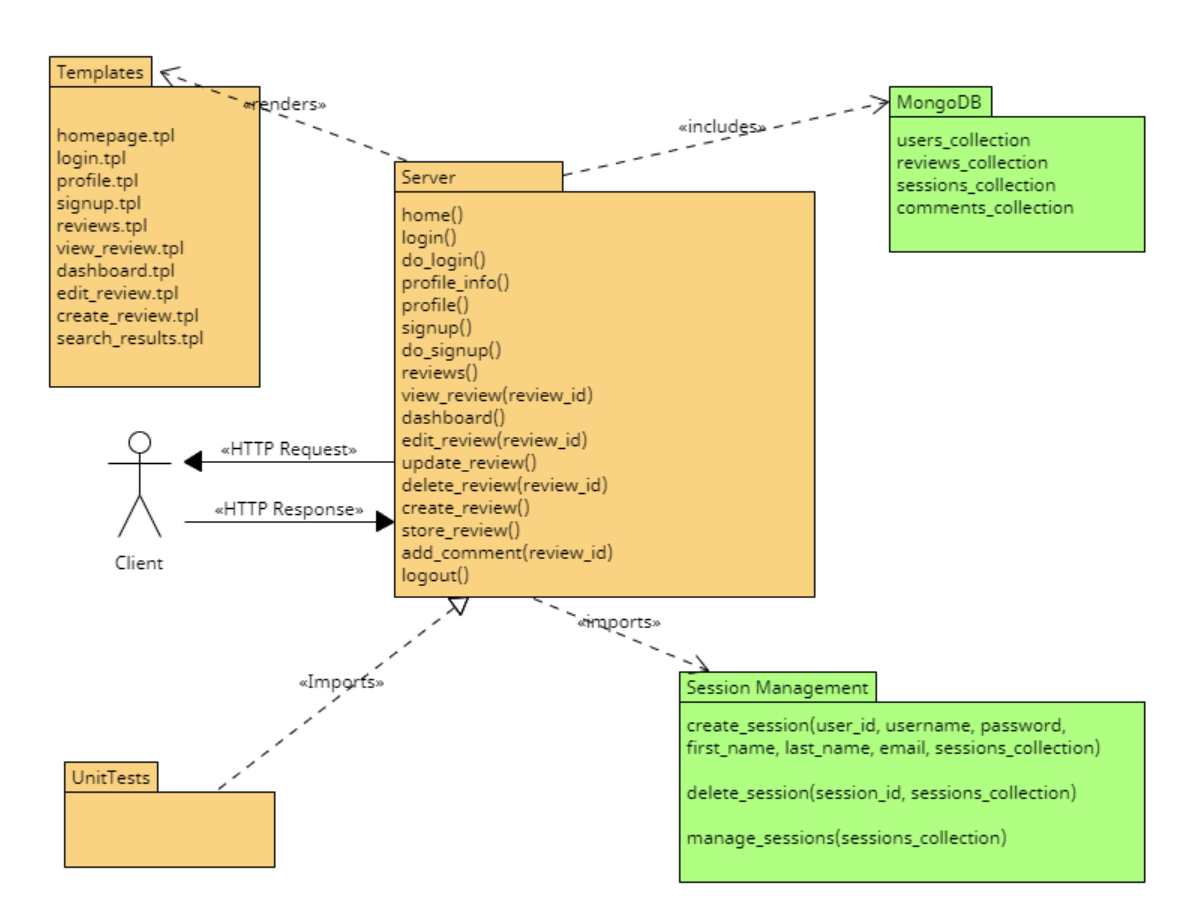
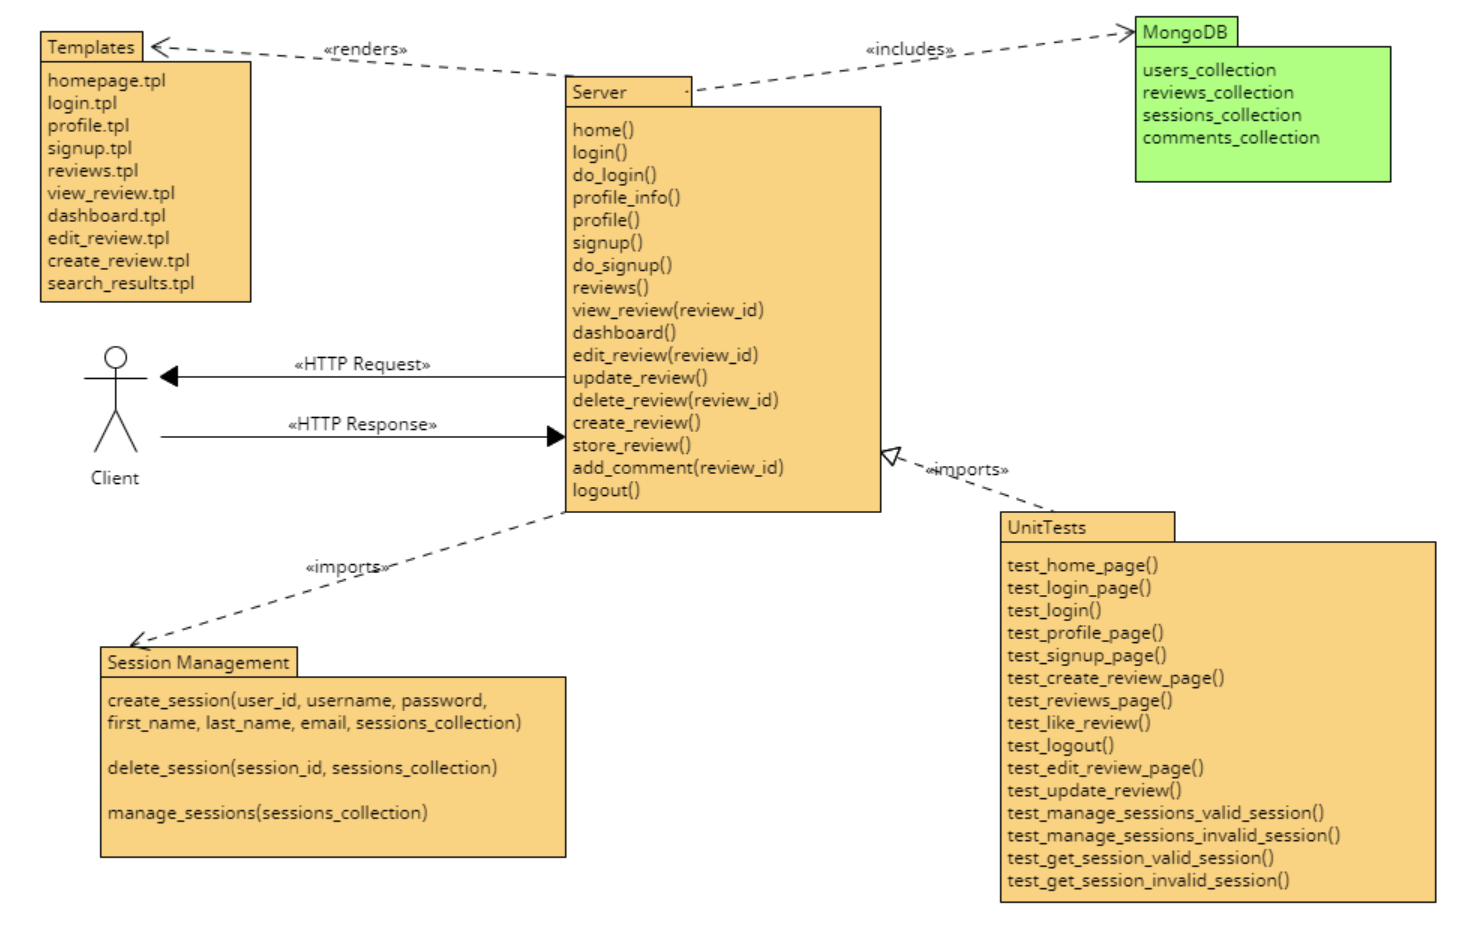
edited the UML, Comp_Arch, and added unit tests for the session management

diff --git a/test_server.py b/test_server.py
@@ -1,12 +1,16 @@
 import unittest
 from bottle import request, response
+from bson import ObjectId
 from webtest import TestApp
 from server import app
+from unittest.mock import MagicMock
+from session_management import create_session, manage_sessions, delete_session, get_session, sessions
 
 
 class TestServer(unittest.TestCase):
     def setUp(self):
         self.test_app = TestApp(app)
+        self.sessions_collection = MagicMock()
 
     def test_home_page(self):
         response = self.test_app.get('/')
@@ -64,13 +68,68 @@ class TestServer(unittest.TestCase):
         response = self.test_app.get('/edit_review/65492e9a717a81861104b2b4')
         self.assertEqual(response.status_code, 200)  # Check that the edit review page is accessible
 
-    def test_update_review(self):
-        # Simulate updating a review
-        response = self.test_app.post('/update_review', params={
-            'review_id': '65492e9a717a81861104b2b4',
-            'content': 'Updated review content.'
-        })
-        self.assertIn(response.status_code, [302, 303])  # Check for a redirect after updating the review
+
+    def test_create_session(self):
+        # Assuming you have user data
+        user_id = 1
+        username = 'testuser'
+        password = 'testpassword'
+        first_name = 'Test'
+        last_name = 'User'
+        email = 'testuser@example.com'
+
+        session_id = create_session(user_id, username, password, first_name, last_name, email,
+                                    self.sessions_collection)
+        # You might want to check if the session_id is not None or some other verification
+        self.assertIsNotNone(session_id)
+
+    def delete_session(session_id, sessions_collection):
+        """
+        Deletes the user session associated with the provided session ID.
+
+        Args:
+            session_id (str): The session ID of the session to be deleted.
+            sessions_collection (pymongo.collection.Collection): The MongoDB collection for storing sessions.
+
+        Returns:
+            None
+        """
+        # Convert session_id to ObjectId before querying MongoDB
+        sessions_collection.delete_one({"_id": ObjectId(session_id)})
+
+        # Remove the session data from the dictionary
+        if session_id in sessions:
+            del sessions[session_id]
+
+    def test_manage_sessions_valid_session(self):
+        request = MagicMock()
+        request.get_cookie.return_value = 'test_session_id'
+
+        # Set the 'session' attribute correctly
+        request.session = {'username': 'testuser'}
+
+        manage_sessions(request)
+        self.assertEqual(request.session, {'username': 'testuser'})
+
+    def test_manage_sessions_invalid_session(self):
+        request = MagicMock()
+        request.get_cookie.return_value = 'invalid_session_id'
+        manage_sessions(self.sessions_collection)
+        self.assertNotIn('session', request)
+
+    def test_get_session_valid_session(self):
+        request = MagicMock()
+        request.get_cookie.return_value = 'test_session_id'
+        # Set up a sample session in the global sessions dictionary
+        sessions['test_session_id'] = {'username': 'testuser'}
+        session = get_session(request)
+        self.assertEqual(session, {'username': 'testuser'})
+
+    def test_get_session_invalid_session(self):
+        request = MagicMock()
+        request.get_cookie.return_value = 'invalid_session_id'
+        session = get_session(request)
+        self.assertEqual(session, {})
 
 
 if __name__ == '__main__':

diff --git a/docs/Comp_Arch.md b/docs/Comp_Arch.md
@@ -1,7 +1,6 @@
 # Component Architecture Document
 
 ## Overview
-
 This document provides an architecture overview of a web application built using the Bottle framework in Python. The application's primary focus is on user authentication, session management, and various user interactions, including login, signup, review creation, editing, deletion, and comment addition.
 
 ### UML Diagram:
@@ -15,7 +14,7 @@ This document provides an architecture overview of a web application built using
 - **Key Functions**:
   - `home()`: Renders the homepage template.
   - `login()`: Renders the login template.
-  -  `do_login()`: Handles user login and redirects to the dashboard upon success.
+  - `do_login()`: Handles user login and redirects to the dashboard upon success.
   - `profile_info()`: Manages the user's profile information.
   - `profile()`: Renders the user profile page.
   - `signup()`: Renders the signup template.
@@ -31,7 +30,6 @@ This document provides an architecture overview of a web application built using
   - `add_comment(review_id)`: Allows users to add comments to reviews.
   - `logout()`: Logs the user out and clears the session.
   
-
 ### 2. MongoDB Database
 
 - **Responsibility**: This component stores user data, review data, and session information in a MongoDB database.
@@ -56,40 +54,62 @@ This document provides an architecture overview of a web application built using
   - 'edit_review.tpl': Edit a review.
   - 'create_review.tpl': Create a new review.
   - 'search_results.tpl': Display search results.
-  
 
 ### 4. Session Management
 
-- **Responsibility**: This component manages user sessions and session-related functions.
+- **Responsibility**: Manages user sessions and session-related functions.
+- 
 - **Key Functions**:
   - `create_session(user_id, username, password, first_name, last_name, email, sessions_collection)`: Creates a new user session and sets a session cookie in the response.
   - `delete_session(session_id, sessions_collection)`: Deletes a user session.
   - `manage_sessions(sessions_collection)`: Manages user sessions and acts as a hook to perform session-related tasks.
 
+### 5. Unit Tests
+
+- **Responsibility**: Ensuring the functionality and behavior of various components within the web application through automated testing.
+- **Key Test Cases**:
+  - `test_home_page()`: Tests the homepage route.
+  - `test_login_page()`: Tests the login page route.
+  - `test_login()`: Tests user login functionality.
+  - `test_profile_page()`: Tests the user profile page route.
+  - `test_signup_page()`: Tests the signup page route.
+  - `test_create_review_page()`: Tests the create review page route.
+  - `test_reviews_page()`: Tests the reviews page route.
+  - `test_like_review()`: Tests the "like" functionality for reviews.
+  - `test_logout()`: Tests user logout functionality.
+  - `test_edit_review_page()`: Tests the edit review page route.
+  - `test_update_review()`: Tests updating a review.
+  - `test_manage_sessions_valid_session()`: Tests managing a valid user session.
+  - `test_manage_sessions_invalid_session()`: Tests managing an invalid user session.
+  - `test_get_session_valid_session()`: Tests getting a valid user session.
+  - `test_get_session_invalid_session()`: Tests getting an invalid user session.
+
+
 ## Component Interactions
 
-The components interact as follows:
+1. A user accesses the web application through a web browser.
 
-1. Users access the web application through their web browsers.
+2. The web application (Bottle) receives HTTP requests from the user.
 
-2. The web application (Bottle) receives HTTP requests from users.
+3. When a request is received, the web application routes the request to the appropriate view or function based on the URL path.
 
-3. Upon receiving a request, the web application routes it to the appropriate view or function based on the URL path.
+4. Views and templates render HTML pages for the user to interact with.
 
-4. Views and templates render HTML pages for user interaction.
-
-5. The application interacts with the MongoDB database to store and retrieve user data, reviews, and session information.
+5. The application uses MongoDB to store and retrieve user data, reviews, and session information.
 
 6. Session management functions handle user authentication and session creation, while hooks manage user sessions throughout the application.
 
-7. Views and templates access the MongoDB database to retrieve review data and comments for rendering.
+7. Views and templates interact with the MongoDB database to retrieve review data and comments for rendering.
 
 8. Users can perform actions such as logging in, signing up, creating, editing, or deleting reviews, and adding comments to reviews.
 
-9. Session data is stored in the MongoDB collection designated for sessions, and session cookies are set in users' browsers.
+9. Session data is stored in the MongoDB collection designated for sessions, and session cookies are set in the user's browser.
 
 10. User data is retrieved from the database for authentication and personalization.
 
 ## Conclusion
 
-This component architecture document outlines the various components, their responsibilities, and interactions in the web application. The components work together to provide user authentication, session management, and features for creating and managing reviews and comments. MongoDB is used to store and retrieve data, while the Bottle framework handles routing and view rendering.
+This component architecture document outlines the various components, their responsibilities, and interactions in the web application.
+The components work together to provide user authentication, session management, and features for creating and managing reviews and comments.
+MongoDB is used to store and retrieve data, while the Bottle framework handles routing and view rendering.
+
